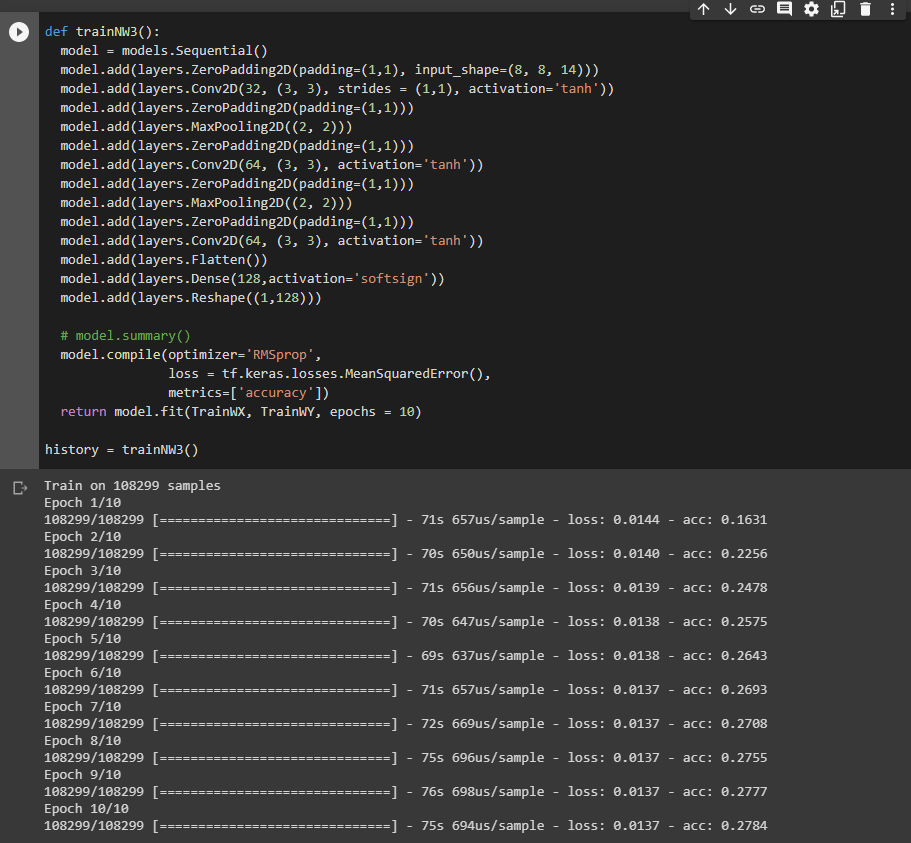
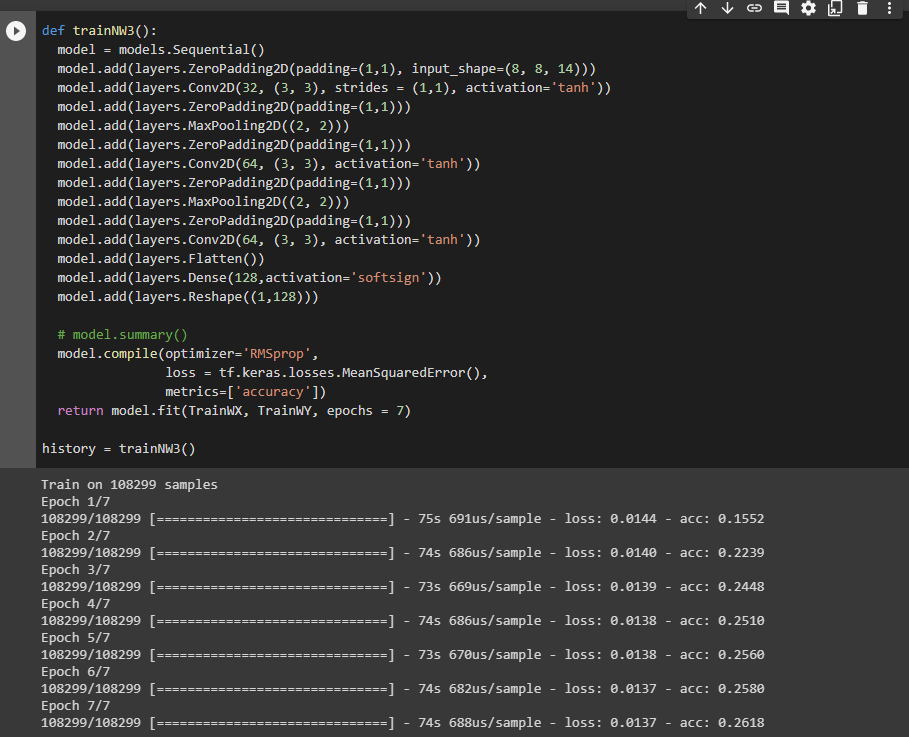
Modified NB3 White models & weights (lowered epoch)

Changed region(s): [[0.0, 0.0312, 1.0, 0.9986], [0.7701, 0.0, 0.9857, 0.0312]]

diff --git a/Models/NB_models.py b/Models/NB_models.py
@@ -90,5 +90,4 @@ def trainNW3():
   model.compile(optimizer='RMSprop',
                 loss = tf.keras.losses.MeanSquaredError(),
                 metrics=['accuracy'])
-  return model.fit(TrainWX, TrainWY, epochs = 10)
-  
+  return model.fit(TrainWX, TrainWY, epochs = 7)
